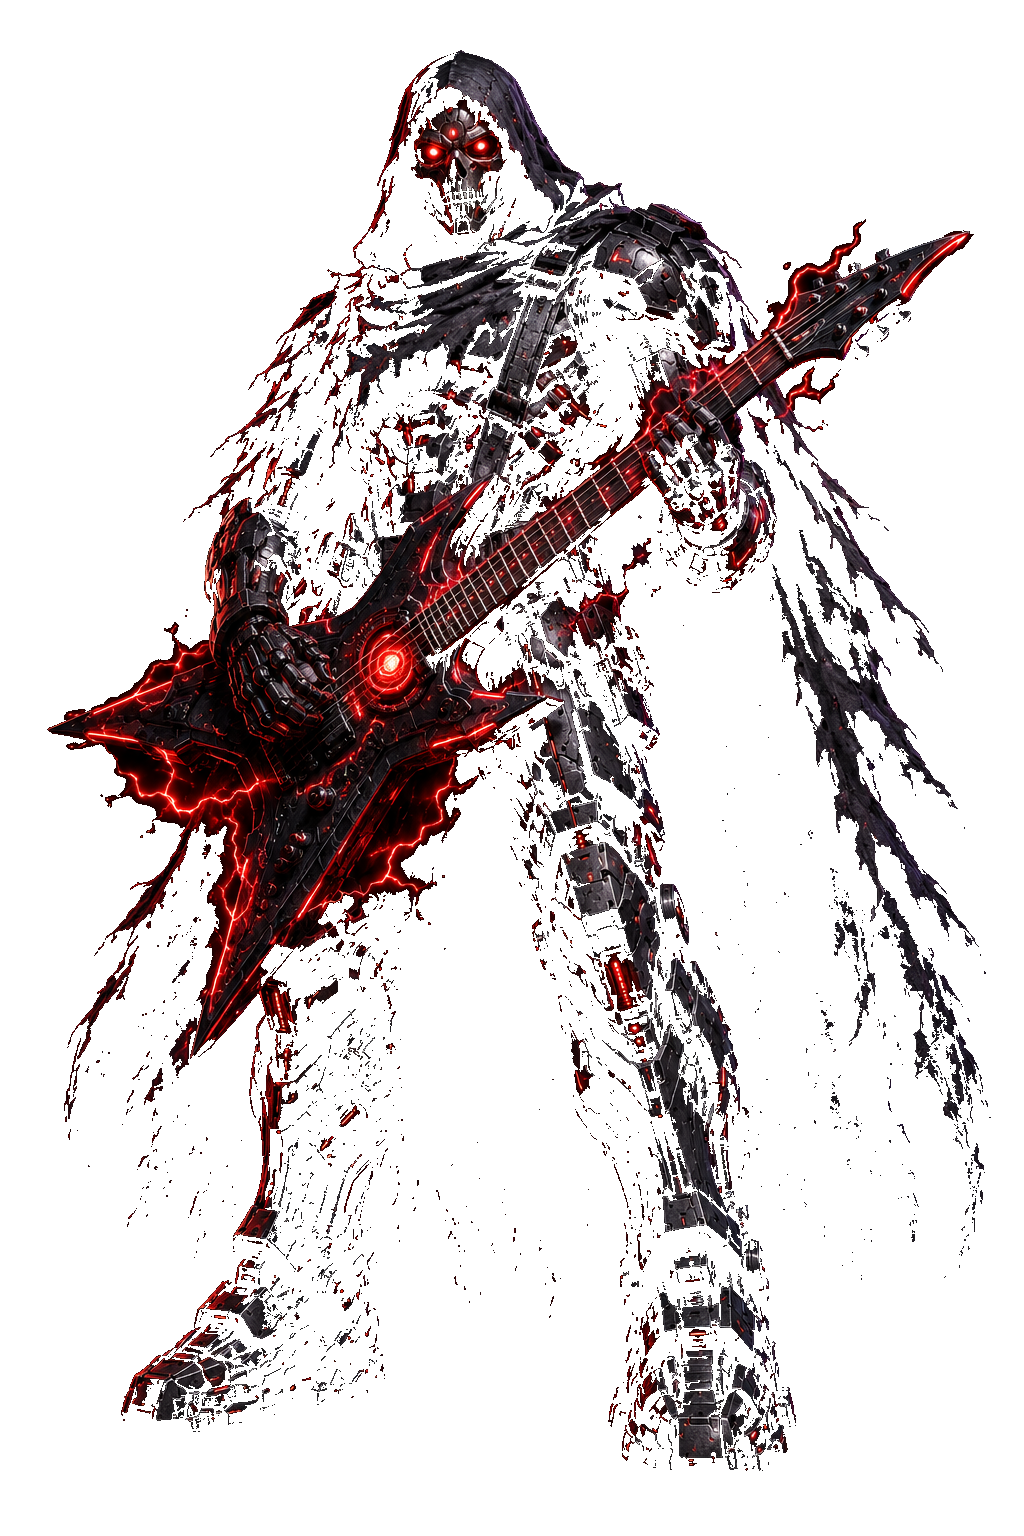
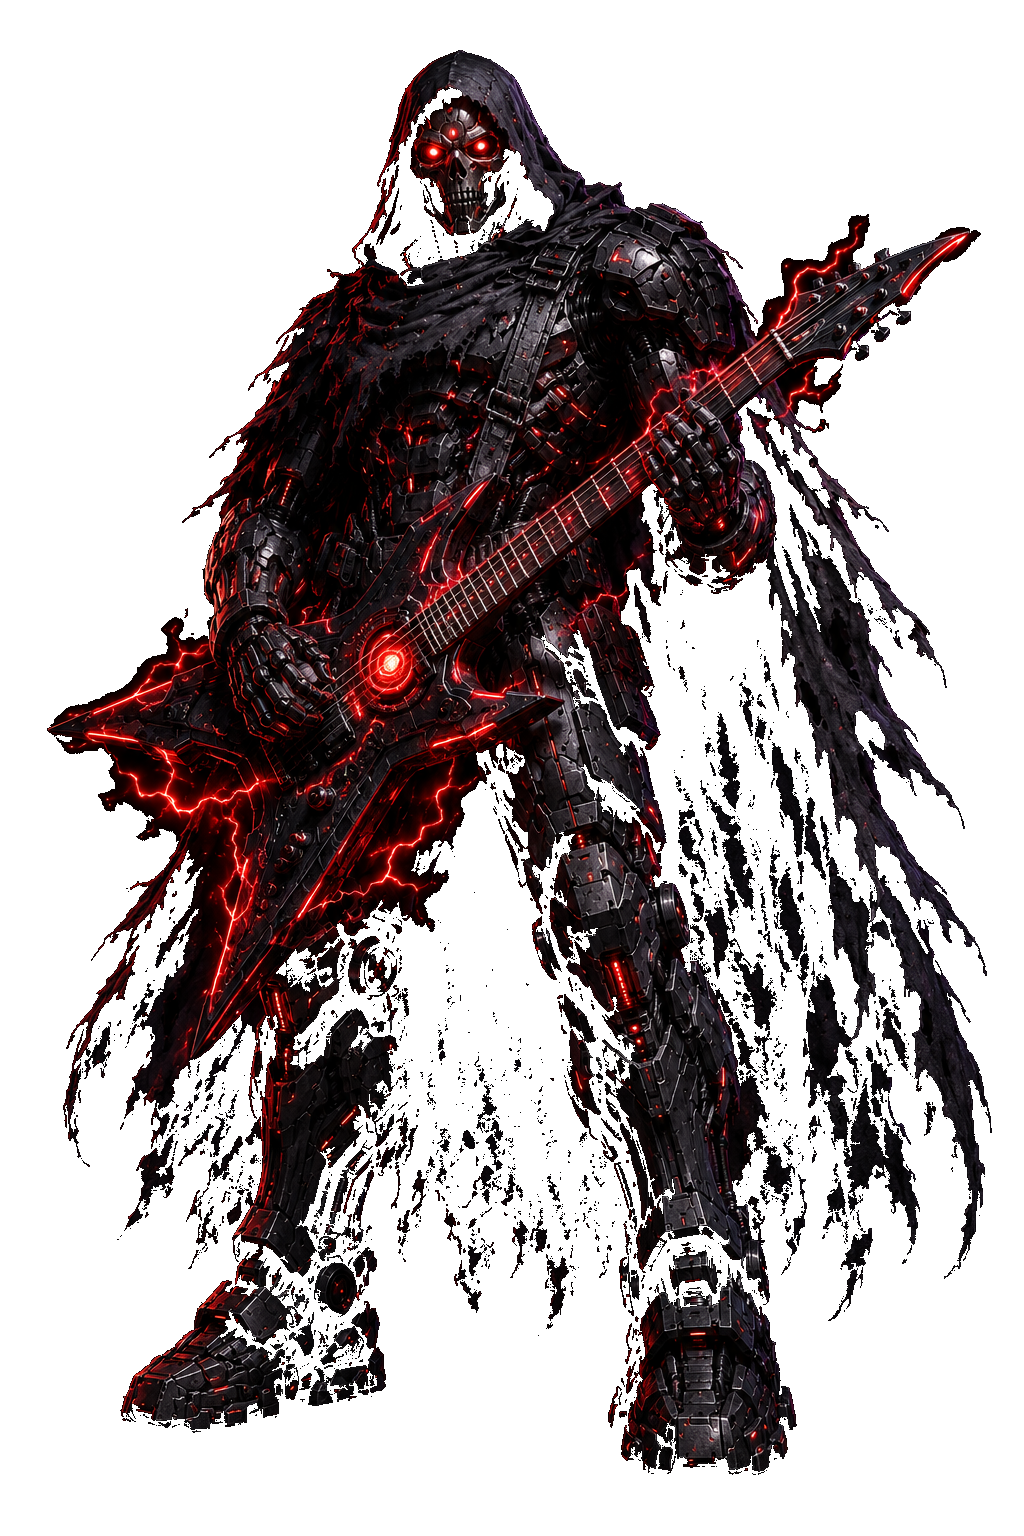
fix+feat: Eddie polish pass — chord/sword FX drawn in screen space (damage now lands where you see it), 34px glowing fragments, chord dmg 30; ghost sprite fixed (tight flood-fill, armor restored); Null Riff Capacitor relic; Red Thunder Resonance weapon synergy

diff --git a/js/game/Game.js b/js/game/Game.js
@@ -22,7 +22,7 @@ import { weightedSample } from './Upgrades.js?v=20260705300000';
 import { MutationUI }      from './MutationUI.js?v=20260703990000';
 import { sampleMutations } from './Mutations.js?v=20260703990000';
 import { drawHUD, drawEndScreen } from './HUD.js?v=20260705300000';
-import { MetaProgress, META_UPGRADES, SYNERGY_UPGRADES, upgradeCost, ENDLESS_ACHIEVEMENTS, CHARACTER_OUTFITS, PF_CHARACTER_COSTS, PF_TOTAL_OBTAINABLE, PROTOCOL_CARDS, RELIC_DEFS } from './MetaProgress.js?v=20260705300000';
+import { MetaProgress, META_UPGRADES, SYNERGY_UPGRADES, upgradeCost, ENDLESS_ACHIEVEMENTS, CHARACTER_OUTFITS, PF_CHARACTER_COSTS, PF_TOTAL_OBTAINABLE, PROTOCOL_CARDS, RELIC_DEFS } from './MetaProgress.js?v=20260705320000';
 import { ElementFx, CHARACTER_ELEMENT, ELEMENTS, ELEMENT_ICON, FUSION_FX, CHARACTER_FUSION, FUSION_PAIRS, fusionKey } from '../Elements.js?v=20260705300000';
 // Japan Phasewalker (Endless unlockable) ability/VFX modules — kept as separate, self-contained
 // files in js/effects/ and used ONLY when selectedCharacter === 'japan_phasewalker'.
@@ -42,7 +42,7 @@ import { NexusManager } from './NexusManager.js?v=20260705150000';
 import { VESSELS, getVesselById, getDefaultVesselId } from './VesselCatalog.js?v=20260705040000';
 import { PETS, getPetById } from './PetCatalog.js?v=20260705000000';
 import { WEAPON_ID, EVOLUTION_RECIPES, getWeaponDef, getWeaponStatsAtLevel, checkAllEvolutionsReady, getWeaponForCharacter, getAllBaseWeapons, isEvolutionOwnedBy, getCardDisplayName } from './WeaponCatalog.js?v=20260705300000';
-import { TACTICAL_ID, TACTICAL_DEFS, getTacticalDef, getTacticalForCharacter, getAvailableTactical, preloadTacticalSprites, FUSION_TACTICALS } from './TacticalWeaponCatalog.js?v=20260705300000';
+import { TACTICAL_ID, TACTICAL_DEFS, getTacticalDef, getTacticalForCharacter, getAvailableTactical, preloadTacticalSprites, FUSION_TACTICALS } from './TacticalWeaponCatalog.js?v=20260705320000';
 import { VFXSpritePlayer } from './VFXSpritePlayer.js?v=20260705120000';
 
 // ── Mastery card → base weapon mapping (for evolution level tracking) ──
@@ -1852,6 +1852,8 @@ export class Game {
 
     // ── Null Battery relic: 8% faster Q/E ability cooldowns ──
     if (m.isRelicUnlocked('null_battery')) p.abilityCdMult = 1.08;
+    // Null Riff Capacitor — Eddie relic: amplified dash note clouds + hotter riff bolts
+    this._riffCapacitor = (p.selectedCharacter === 'eddie') && m.isRelicUnlocked('null_riff_capacitor');
   }
 
   // ── Vessel passives ──────────────────────────────────────────────────────────
@@ -8537,7 +8539,8 @@ export class Game {
       this._eddieNoteClouds.push({
         x: p.pos.x + dir.x * reach * k,
         y: p.pos.y + dir.y * reach * k,
-        r: 46, t: 0, active: 1.6, dmgCd: 0,
+        r: 46, t: 0, active: this._riffCapacitor ? 3.2 : 1.6,
+        dmg: this._riffCapacitor ? 12 : 8, dmgCd: 0,
         glyph: Math.random() < 0.5 ? '♪' : '♩',
         rot: (Math.random() - 0.5) * 0.8,
       });
@@ -8556,7 +8559,7 @@ export class Game {
         for (const e of this.enemies) {
           if (!e || e.hp <= 0) continue;
           const dx = e.pos.x - nc.x, dy = e.pos.y - nc.y;
-          if (dx * dx + dy * dy < r2) e.takeHit(8, this); // 8 dmg per tick per enemy inside
+          if (dx * dx + dy * dy < r2) e.takeHit(nc.dmg || 8, this); // per-zone dmg (12 with Null Riff Capacitor)
         }
       }
     }
@@ -9671,12 +9674,15 @@ export class Game {
     this._redThunderCd = stats.cooldown;
 
     const shots   = level >= 4 ? 2 : 1;        // Lv4+: +1 bolt
+    // Red Thunder Resonance ★ synergy + Null Riff Capacitor relic scale the riff
+    const synRT   = this.meta?.getLevel?.('syn_red_thunder') || 0;
+    const dmgMult = (1 + 0.06 * synRT) * (this._riffCapacitor ? 1.10 : 1);
     const baseAng = Math.atan2(target.pos.y - p.pos.y, target.pos.x - p.pos.x);
     for (let i = 0; i < shots; i++) {
       const ang = baseAng + (shots > 1 ? (i === 0 ? -0.09 : 0.09) : 0);
       const dir = new Vec2(Math.cos(ang), Math.sin(ang));
       // Spawn OFFSET from Eddie toward the target — the bolt never sits on the player.
-      const proj = new Projectile(p.pos.add(dir.scale(46)), dir, stats.damage, null);
+      const proj = new Projectile(p.pos.add(dir.scale(46)), dir, Math.round(stats.damage * dmgMult), null);
       proj.style = 'red_bolt';
       proj.speed = 1150;                       // fast bolt
       proj.life  = 0.8;
@@ -9685,7 +9691,7 @@ export class Game {
     this.audio?.playShoot?.();
 
     // Lv3+ chain lightning: 35% chance to arc to ONE enemy near the target (50% dmg)
-    if (level >= 3 && Math.random() < 0.35) {
+    if (level >= 3 && Math.random() < 0.35 + 0.04 * synRT) {   // synergy stars widen the arc chance
       let arcTo = null, bestD2 = 180 * 180;
       for (const e of this.enemies) {
         if (!e || e.hp <= 0 || e === target) continue;
@@ -10442,31 +10448,37 @@ export class Game {
   // the camera transform (translate(-camera)), so world coords land exactly where the damage
   // zones tick. Fragments render on the world layer below entities; impact flashes above ground.
   _drawChordRainFx(ctx, w) {
+    // SCREEN-SPACE like every other tactical FX (world - camera). The first version drew in
+    // raw world coords on this screen-space layer — fragments rendered far from where they
+    // actually landed, so the rain looked absent and its damage looked like it never happened.
+    const cam = this.camera;
     const sprite = this._tacticalSpriteCache.get(w.id);
     if (sprite && sprite.complete && sprite.naturalWidth > 0) {   // deployed-cache marker at drop point
       ctx.save();
       ctx.globalAlpha = Math.min(1, w.timer / 1.0) * 0.9;
-      ctx.drawImage(sprite, w.x - 30, w.y - 30, 60, 60);
+      ctx.drawImage(sprite, w.x - cam.x - 30, w.y - cam.y - 30, 60, 60);
       ctx.restore();
     }
     for (const f of w.frags) {
+      const fx = f.x - cam.x;
       if (f.t < f.fall) {                                         // falling encrypted fragment
         const k = f.t / f.fall;
         const top = f.top !== undefined ? f.top : f.gy - 340;
-        const y = top + k * (f.gy - top);
-        const tail = Math.min(240, Math.max(70, (y - top) * 0.55));
+        const y = top + k * (f.gy - top) - cam.y;
+        const tail = Math.min(260, Math.max(80, (top + k * (f.gy - top) - top) * 0.55));
         ctx.save();
         ctx.globalCompositeOperation = 'lighter';
-        const tg = ctx.createLinearGradient(f.x, y - tail, f.x, y);
+        const tg = ctx.createLinearGradient(fx, y - tail, fx, y);
         tg.addColorStop(0, 'rgba(0,0,0,0)');
         tg.addColorStop(1, f.color);
-        ctx.globalAlpha = 0.30;
-        ctx.strokeStyle = tg; ctx.lineWidth = 2.5;
-        ctx.beginPath(); ctx.moveTo(f.x, y - tail); ctx.lineTo(f.x, y); ctx.stroke();
-        ctx.globalAlpha = 0.34 + 0.22 * k;                        // low-alpha — never a readable block
-        ctx.translate(f.x, y); ctx.rotate(f.rot);
+        ctx.globalAlpha = 0.5;
+        ctx.strokeStyle = tg; ctx.lineWidth = 3.5;
+        ctx.beginPath(); ctx.moveTo(fx, y - tail); ctx.lineTo(fx, y); ctx.stroke();
+        ctx.globalAlpha = 0.72 + 0.2 * k;                         // clearly visible — encrypted by scatter, not by faintness
+        ctx.translate(fx, y); ctx.rotate(f.rot);
         ctx.fillStyle = f.color;
-        ctx.font = 'bold 18px Consolas, monospace';
+        ctx.shadowColor = f.color; ctx.shadowBlur = 12;
+        ctx.font = 'bold 34px Consolas, monospace';
         ctx.textAlign = 'center';
         ctx.fillText(f.txt, 0, 0);
         ctx.restore();
@@ -10474,9 +10486,9 @@ export class Game {
         const a = Math.max(0, 1 - (f.t - f.fall) / 0.35);
         ctx.save();
         ctx.globalCompositeOperation = 'lighter';
-        ctx.globalAlpha = a * 0.8;
-        ctx.strokeStyle = f.color; ctx.lineWidth = 3;
-        ctx.beginPath(); ctx.arc(f.x, f.gy, ((w.def.aoeRadius || 60) + 10) * (1 - a * 0.5), 0, Math.PI * 2); ctx.stroke();
+        ctx.globalAlpha = a * 0.9;
+        ctx.strokeStyle = f.color; ctx.lineWidth = 5;
+        ctx.beginPath(); ctx.arc(fx, f.gy - cam.y, ((w.def.aoeRadius || 60) + 10) * (1 - a * 0.5), 0, Math.PI * 2); ctx.stroke();
         ctx.restore();
       }
     }
@@ -10486,15 +10498,16 @@ export class Game {
   _drawSwordBurstFx(ctx, w) {
     const sprite = this._tacticalSpriteCache.get(w.id);
     const ready = sprite && sprite.complete && sprite.naturalWidth > 0;
+    const cam = this.camera;                                     // screen-space like every tactical FX
     if (ready && !w.swords.length) {                              // idle cache marker at drop point
       ctx.save();
       ctx.globalAlpha = Math.min(1, w.timer / 1.0) * 0.9;
-      ctx.drawImage(sprite, w.x - 30, w.y - 30, 60, 60);
+      ctx.drawImage(sprite, w.x - cam.x - 30, w.y - cam.y - 30, 60, 60);
       ctx.restore();
     }
     for (const s of w.swords) {
       ctx.save();
-      ctx.translate(s.x, s.y);
+      ctx.translate(s.x - cam.x, s.y - cam.y);
       ctx.rotate(s.ang);
       ctx.globalCompositeOperation = 'lighter';                   // additive glow trail behind the blade
       const grad = ctx.createLinearGradient(-190, 0, 0, 0);

diff --git a/js/game/MetaProgress.js b/js/game/MetaProgress.js
@@ -37,6 +37,7 @@ export const SYNERGY_UPGRADES = [
   { key: 'syn_plasma_execution',  name: 'Plasma Execution Loop ★',  char: 'assassin_clone',          charName: 'Assassin Clone',   desc: '+execution damage & uptime',      maxLevel: 5, flatCost: 1000 },
   { key: 'syn_toxic_geometry',    name: 'Toxic Geometry ★',         char: 'euclid_vector',           charName: 'Euclid Vector',    desc: '+poison tick & mark duration',    maxLevel: 5, flatCost: 1000 },
   { key: 'syn_cataclysm_chain',   name: 'Cataclysm Chain Reaction ★', char: 'oni_cataclysm_protocol', charName: 'Oni Cataclysm',  desc: '+4% Protocol 0 detonation per star', maxLevel: 5, flatCost: 1000, lockedUntil: 'oni_cataclysm_protocol' },
+  { key: 'syn_red_thunder',       name: 'Red Thunder Resonance ★',   char: 'eddie',                  charName: 'Eddie',            desc: '+4% chain arc chance & +6% bolt damage per star', maxLevel: 5, flatCost: 1000, lockedUntil: 'eddie' },
 ];
 
 // Secret unlock flags — set on a victory, persisted in localStorage, read by the
@@ -220,6 +221,9 @@ export const RELIC_DEFS = [
   { id:'blacknet_coupon',      name:'Blacknet Coupon',      type:'universal',  cost:4,
     effect:'First level-up screen each run grants 1 extra reroll.',
     req:null, reqChar:null },
+  { id:'null_riff_capacitor',  name:'Null Riff Capacitor',  type:'universal',  cost:6,
+    effect:'Eddie: dash note clouds last 3.2s and tick for 12. Solo Red Thunder bolts +10% damage.',
+    req:null, reqChar:'eddie' },
   { id:'serpent_ember_coil',   name:'Serpent Ember Coil',   type:'boss',       cost:6,
     effect:'Dash leaves a 1.5s ember trail. Enemies touching it take burn damage.',
     req:'cyberSerpent', reqChar:null },

diff --git a/index.html b/index.html
@@ -45,6 +45,6 @@
   <canvas id="game" width="1280" height="720"></canvas>
   <!-- deploy fix v4 — retrigger pages build (642624f deploy failed upstream) -->
   <div id="click-to-start">Click or press any key to enable music &nbsp;|&nbsp; M = mute &nbsp;|&nbsp; ESC = pause</div>
-  <script type="module" src="js/main.js?v=20260705310000"></script>
+  <script type="module" src="js/main.js?v=20260705320000"></script>
 </body>
 </html>

diff --git a/js/game/TacticalWeaponCatalog.js b/js/game/TacticalWeaponCatalog.js
@@ -405,7 +405,7 @@ export const TACTICAL_DEFS = Object.freeze({
     fxModule:    FX_MODULE.A_STORM_CONDUCTOR,
     behavior:    TACTICAL_BEHAVIOR.CHORD_RAIN,
     sprite:      'assets/weapons/tactical/tac_eddie_chord_curtain.png',
-    baseDamage:  22,
+    baseDamage:  30,
     aoeRadius:   60,
     tickRate:     2.2,    // seconds between fragment waves
     duration:    14,      // seconds active

diff --git a/js/main.js b/js/main.js
@@ -1,4 +1,4 @@
-import { Game } from './game/Game.js?v=20260705310000';
+import { Game } from './game/Game.js?v=20260705320000';
 import { AudioManager } from './audio/AudioManager.js?v=20260705220000';
 import { GamepadInput } from './Gamepad.js?v=20260703990000';
 import { initTouchControls } from './TouchInput.js?v=20260703990000';